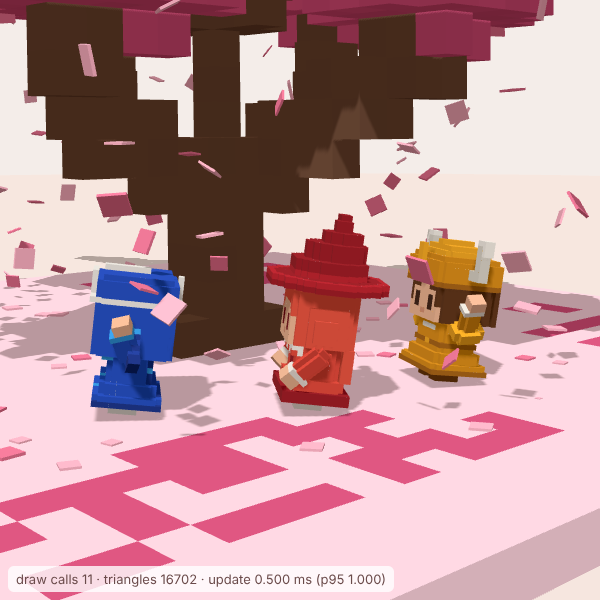
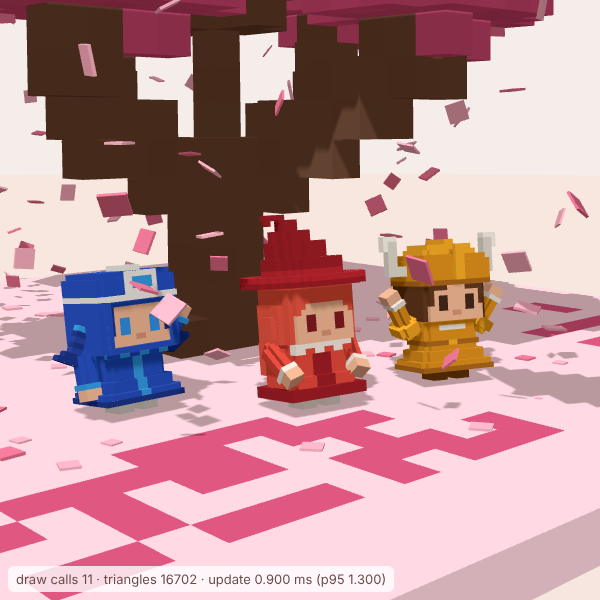
Bigger whale circle, smoother dive, staged angles and a camera move for the watching scene
- The whale circles at twice the plate's half-width (radius ~31 cubes, a lap in 40 s); it is the only
  thing allowed beyond plate + 3 cubes, and only as far as its own circle (the check uses that).
- The dive mirrors the climb (steep, easing level), and the pitch follows the motion averaged over a second
  with a soft ~45 degree limit, so diving into level flight no longer snaps.
- Staging: the whale arrives 25 degrees clockwise (seen from above) of where the runners stop, so they see it
  across open sky; their stopping point is predicted during the dive and the whale's place on its circle is
  eased towards it, then locked once they have stopped.
- Camera director (index.html): when they stop, the camera glides to 45 degrees counter-clockwise of them
  round the trunk, looking down at them from 45 degrees (rising if the canopy would hide anyone), drifts a
  little, and glides back when they run off. Dragging cancels it; off with ?view= / ?test=.
- Self-check: each runner's line of sight to the whale is clear while watching; the whale/runner angle is
  reported (26.7 degrees); the director glides in, holds and glides out.

Claude-Session: https://claude.ai/code/session_01FetaT53w5iQdLWHoFnmCoa

diff --git a/index.html b/index.html
@@ -95,7 +95,7 @@ const VIEWS = {
 function placeCamera(view) {
   if (view === 'wide') {
     controls.target.set(0, 0.03, 0);
-    camera.position.set(0.16, 0.085, 0.19);
+    camera.position.set(0.21, 0.13, 0.25);
     camera.lookAt(controls.target); controls.update();
     return;
   }
@@ -182,11 +182,91 @@ if (wv) {
   camera.position.copy(p).addScaledVector(out, d).addScaledVector(side, d * 0.35).add(new THREE.Vector3(0, d * 0.28, 0));
   camera.lookAt(controls.target); controls.update();
 }
+// ---- camera director ----------------------------------------------------------------------------------------------
+// When the three stop to watch the whale, the camera glides (2 s) to a spot 45 degrees counter-clockwise of them
+// round the trunk (seen from above), looking down at them from 45 degrees above, and drifts a little while they watch
+// (the whale arrives 25 degrees clockwise of them, so they see it across open sky). When they run off it glides
+// back. If the canopy would hide any of them, the camera rises until it doesn't. Dragging the view cancels the shot
+// until the next one. Off with ?view= or ?test=.
+const director = { on: !qs.get('view') && !qs.get('test'), phase: 'idle', t: 0, cancelled: false, first: true };
+const animRoot = () => stage.getObjectByName('SakuraQR-animation');
+const runnerObjs = () => {
+  const whaleObj = stage.getObjectByName('whale'), list = [];
+  stage.traverse(o => { if (o.isSkinnedMesh && !(whaleObj && whaleObj.getObjectById(o.id))) list.push(o.parent); });
+  return list;
+};
+const SHOT = { reach: 0.036, around: -Math.PI / 4, elevation: Math.PI / 4, drift: -0.1, glide: 2 };
+const trunkAt = new THREE.Vector3(info.trunk.centre[0], 0, info.trunk.centre[1]);   // the tree sits at the stage origin
+const easeInOut = x => x < 0.5 ? 4 * x * x * x : 1 - Math.pow(-2 * x + 2, 3) / 2;
+controls.addEventListener('start', () => { if (director.phase !== 'idle') { director.phase = 'idle'; director.cancelled = true; } });
+const treeSolids = [];
+tree.traverse(o => { if (o.isMesh) treeSolids.push(o); });
+const sightRay = new THREE.Raycaster();
+function clearSight(from, to) {
+  const d = to.clone().sub(from), len = d.length();
+  sightRay.set(from, d.normalize()); sightRay.far = len;
+  return !sightRay.intersectObjects(treeSolids, false).length;
+}
+function runnersCentre(objs) {
+  const c = new THREE.Vector3();
+  for (const o of objs) c.add(o.getWorldPosition(new THREE.Vector3()));
+  return c.divideScalar(objs.length || 1);
+}
+// camera for the shot: round the trunk by `around` from the runners, `reach` away from them horizontally, raised so
+// it looks down at them at `elevation`
+function shotPose(around, elevation) {
+  const objs = runnerObjs(), c = runnersCentre(objs);
+  const r = Math.hypot(c.x - trunkAt.x, c.z - trunkAt.z), a = Math.atan2(c.z - trunkAt.z, c.x - trunkAt.x) + around;
+  // the point at angle a from the trunk that is `reach` from the runners: |R u - r v| = reach, angle(u, v) = around
+  const R = r * Math.cos(around) + Math.sqrt(Math.max(0, SHOT.reach * SHOT.reach - Math.pow(r * Math.sin(around), 2)));
+  const pos = new THREE.Vector3(trunkAt.x + R * Math.cos(a), 0, trunkAt.z + R * Math.sin(a));
+  pos.y = c.y + Math.hypot(pos.x - c.x, pos.z - c.z) * Math.tan(elevation);
+  return { target: c.clone().add(new THREE.Vector3(0, 0.003, 0)), pos };
+}
+function direct(dt) {
+  if (!director.on) return;
+  const runners = (animRoot() && animRoot().userData.runners) || [];
+  const watching = runners.some(r => r.mode === 'watch');
+  if (!watching) director.cancelled = false;
+  const d = director;
+  if (d.phase === 'idle' && watching && !d.cancelled) {
+    d.saved = { pos: camera.position.clone(), target: controls.target.clone() };
+    // 45 degrees up; higher if the canopy is in the way of any of them (checked over the drift too)
+    const objs = runnerObjs();
+    d.elevation = SHOT.elevation;
+    for (; d.elevation < 1.4; d.elevation += 0.08) {
+      const ok = [0, SHOT.drift].every(dr => { const p = shotPose(SHOT.around + dr, d.elevation);
+        return objs.every(o => clearSight(o.getWorldPosition(new THREE.Vector3()).add(new THREE.Vector3(0, 0.003, 0)), p.pos)); });
+      if (ok) break;
+    }
+    d.phase = d.first ? 'hold' : 'in'; d.t = 0;          // already mid-shot when the page opens: cut straight to it
+  }
+  d.first = false;
+  if (d.phase === 'idle') return;
+  d.t += dt;
+  const shot = shotPose(SHOT.around + SHOT.drift * Math.min(1, d.t / 9), d.elevation);
+  if (d.phase === 'in') {
+    const k = easeInOut(Math.min(1, d.t / SHOT.glide));
+    camera.position.lerpVectors(d.saved.pos, shot.pos, k); controls.target.lerpVectors(d.saved.target, shot.target, k);
+    if (k >= 1) d.phase = 'hold';
+  } else if (d.phase === 'hold') {
+    camera.position.copy(shot.pos); controls.target.copy(shot.target);
+    if (!watching) { d.phase = 'out'; d.t = 0; d.from = { pos: camera.position.clone(), target: controls.target.clone() }; }
+  } else if (d.phase === 'out') {
+    const k = easeInOut(Math.min(1, d.t / SHOT.glide));
+    camera.position.lerpVectors(d.from.pos, d.saved.pos, k); controls.target.lerpVectors(d.from.target, d.saved.target, k);
+    if (k >= 1) d.phase = 'idle';
+  }
+  camera.lookAt(controls.target);
+  window.__director = d.phase;
+}
+
 const paused = !!qs.get('pause');
 let last = performance.now(), frames = 0;
 renderer.setAnimationLoop(now => {
   const dt = Math.min((now - last) / 1000, 0.1); last = now;
   if (!paused) { elapsed += dt; timedUpdate(dt, elapsed, showTime()); }
+  direct(dt);
   controls.update();
   renderer.render(scene, camera);
   if (++frames === 3) {
@@ -209,7 +289,7 @@ renderer.setAnimationLoop(now => {
 //  * do two walkers ever come closer than their radii allow?
 async function check() {
   stage.getObjectByName('SakuraQR-animation').userData.stats.where = [];
-  const out = { samples: 0, points: 0, insideTree: [], outOfBounds: [], offPlate: [], walkerOverlap: 0, showErrors: [], timeline: [], whaleLowest: Infinity, petalsAboveCanopy: 0, aboveCanopy: [], petalsFloating: 0, floating: [], petalsLanded: { plate: 0, canopy: 0 } };
+  const out = { samples: 0, points: 0, insideTree: [], outOfBounds: [], offPlate: [], walkerOverlap: 0, showErrors: [], timeline: [], whaleLowest: Infinity, whaleReach: 0, whaleVsRunners: [], petalsAboveCanopy: 0, aboveCanopy: [], petalsFloating: 0, floating: [], petalsLanded: { plate: 0, canopy: 0 } };
   const solid = [];
   tree.updateMatrixWorld(true);
   tree.traverse(o => {
@@ -269,6 +349,17 @@ async function check() {
       if (expect === 'look' && r.v > 0.01) note(out.showErrors, ['runner ' + i + ' moving while watching', +t.toFixed(2)]);
     });
     out.timeline.push([+t.toFixed(1), whaleUp ? 'whale' : '-', runners.map(r => r.act).join(',')]);
+    if (expect === 'look' && whaleUp) {            // while watching, each of them must be able to see the whale
+      const wp = whale.getWorldPosition(new THREE.Vector3()), plan = root.userData.whalePlan;
+      for (const w of walkers) {
+        const eye = w.getWorldPosition(new THREE.Vector3()).add(new THREE.Vector3(0, 3.5 * cell, 0));
+        const d = wp.clone().sub(eye), len = d.length();
+        ray.set(eye, d.normalize()); ray.far = len;
+        if (ray.intersectObjects(solid, false).length) note(out.showErrors, [w.name + ' cannot see the whale', +t.toFixed(2)]);
+        ray.far = Infinity;
+      }
+      out.whaleVsRunners.push([+t.toFixed(1), +(((plan.whale - plan.runners) * 180 / Math.PI + 540) % 360 - 180).toFixed(1)]);
+    }
     if (whaleUp && whaleMesh) {                     // the whale: never in the tree, never past plate + 3 cubes
       whaleMesh.skeleton && whaleMesh.skeleton.update();
       seen.clear();
@@ -280,7 +371,10 @@ async function check() {
         if (seen.has(k)) continue; seen.add(k);
         out.points++;
         low = Math.min(low, v.y);
-        if (Math.abs(v.x) > lim || Math.abs(v.z) > lim || v.y < 0) note(out.outOfBounds, ['whale', +t.toFixed(2), v.toArray().map(n => +(n / cell).toFixed(2))]);
+        // the whale may go beyond plate + 3 cubes, but only as far as its own circle (plus fins) takes it
+        const orbit = root.userData.whaleOrbit, dx = v.x / cell - orbit.centre[0], dz = v.z / cell - orbit.centre[1];
+        if (Math.hypot(dx, dz) > orbit.reach + 1.5 || v.y < 0) note(out.outOfBounds, ['whale', +t.toFixed(2), v.toArray().map(n => +(n / cell).toFixed(2))]);
+        out.whaleReach = Math.max(out.whaleReach, Math.hypot(dx, dz));
         if (inside(v)) note(out.insideTree, ['whale', +t.toFixed(2), v.toArray().map(n => +(n / cell).toFixed(2))]);
       }
       out.whaleLowest = Math.min(out.whaleLowest, low / cell);

diff --git a/scene.js b/scene.js
@@ -47,7 +47,9 @@ const SHOW = {
 };
 const WHALE_DIVE = 48;        // how far above its circle the whale starts its dive, in cubes
 const WHALE_CLIMB = 60;       // how far it has climbed by the time it is gone
-const WHALE_LAP = 24;         // seconds per lap round the tree
+const WHALE_ORBIT = 2;        // radius of its circle, in plate half-widths
+const WHALE_LAP = 40;         // seconds per lap round the tree
+const WHALE_LEAD = 25 * Math.PI / 180;   // where it arrives: this far clockwise (from above) of where the runners stop
 
 export default async function setup({ THREE = THREE_NS, stage, tree, info, mode = '3d', showLength = 93.27 }) {
   const cell = info.cell;
@@ -104,8 +106,9 @@ export default async function setup({ THREE = THREE_NS, stage, tree, info, mode 
   }
 
   // ---- whale ------------------------------------------------------------------------------------------------------
-  // Circles the trunk high enough that, flukes, fins and banking included, it stays clear of the canopy, on a circle
-  // small enough that it never reaches more than 3 cubes past the plate's edge.
+  // Circles the trunk on a big circle — WHALE_ORBIT times the plate's half-width (the one thing in the scene allowed
+  // beyond 3 cubes past the plate's edge) — high enough that, flukes, fins and banking included, it stays clear of
+  // the canopy.
   const wg = await loader.loadAsync(new URL('./assets/whale.glb', import.meta.url).href);
   const whale = wg.scene;
   whale.name = 'whale';
@@ -120,25 +123,50 @@ export default async function setup({ THREE = THREE_NS, stage, tree, info, mode 
   const qBend = new THREE.Quaternion(), yAxis = new THREE.Vector3(0, 1, 0);
   if (wg.animations.length) whaleMixer.clipAction(wg.animations[0]).play();
   const tcx = info.trunk.centre[0] / cell, tcz = info.trunk.centre[1] / cell;
-  const reachOut = Math.min(field.x0 + field.nx / SAMPLES - tcx, tcx - field.x0, field.z0 + field.nz / SAMPLES - tcz, tcz - field.z0) + 3 - 1;
   const wLen = wex.length || 24, wSpan = wex.span || 13, wHeight = wex.height || 8;
-  let wScale = 1, wR = 9.5;
+  const wScale = 1, wR = WHALE_ORBIT * info.plate.cells / 2;
   const halfLen = wLen / 2 + 1.5;                   // the model is a little off-centre (snout +11.5, flukes -13.5)
-  // its spine is bent to follow the circle (see stepWhale), so the fins are what reach furthest out
-  const fits = () => wR + wScale * wSpan / 2 <= reachOut;
-  while (!fits() && wR > 5) wR -= 0.25;
-  while (!fits() && wScale > 0.3) wScale -= 0.02;
+  root.userData.whaleOrbit = { centre: [tcx, tcz], radius: wR, reach: wR + wScale * wSpan / 2 };   // for tests
   whale.scale.setScalar(wScale);
   const WHALE_ROLL = 0.18;
   const wAlt = info.height / cell + 2.5 + wScale * (wHeight / 2 + (wSpan / 2) * Math.sin(WHALE_ROLL)) + 1;   // + 1 for its bob
-  const wOmega = -2 * Math.PI / WHALE_LAP;          // clockwise seen from above, against the runners
+  // angles round the trunk: a = atan2(z, x), which grows clockwise seen from above; the runners go that way
+  const wOmega = -2 * Math.PI / WHALE_LAP;          // counter-clockwise seen from above, against the runners
   const smooth = x => x <= 0 ? 0 : x >= 1 ? 1 : x * x * (3 - 2 * x);
+  // where the whale is at song time t: [x, y, z, scale]; null when it is not in the sky
+  // Where the runners stop decides where the whale should be when it arrives: WHALE_LEAD clockwise (seen from above)
+  // of them round the trunk, so they see it across open sky, not through the tree. Their stopping point depends on
+  // how the chase has gone, so during the dive (high up, out of sight) the whale's place on its circle is steered
+  // towards the predicted spot, and locked once they have stopped.
+  let wPhase = null, wLocked = false;
+  const groupAngle = () => {
+    let x = 0, z = 0;
+    for (const w of walkers) { x += Math.cos(Math.atan2(w.pz - tcz, w.px - tcx)); z += Math.sin(Math.atan2(w.pz - tcz, w.px - tcx)); }
+    return Math.atan2(z, x);
+  };
+  function planWhale(t, dt) {
+    if (t < SHOW.whaleIn || t >= SHOW.whaleGone) { wPhase = null; wLocked = false; return; }
+    if (wLocked || !path || walkers.some(w => w.px === undefined)) { if (wPhase === null) wPhase = Math.PI * 0.75; return; }
+    const stopAt = SHOW.watchFrom[SHOW.watchFrom.length - 1];
+    let ahead = 0;                                  // how much further round they will get before they stop
+    if (t < stopAt + 0.6) {
+      const v = walkers.reduce((a, w) => a + w.v, 0) / walkers.length;
+      ahead = (Math.max(0, stopAt - t) * v + v * v / (2 * 3.5)) / (path.length / (2 * Math.PI));
+    }
+    const target = groupAngle() + ahead + WHALE_LEAD;
+    // first sight (or a page opened after the whale arrived): put it there; otherwise ease towards it, never jump
+    if (wPhase === null) wPhase = target;
+    else wPhase += Math.atan2(Math.sin(target - wPhase), Math.cos(target - wPhase)) * Math.min(1, dt * (t < SHOW.whaleArrive ? 2 : 1.2));
+    if (t >= SHOW.whaleArrive + 0.6 && walkers.every(w => w.v < 0.05)) wLocked = true;
+    root.userData.whalePlan = { runners: groupAngle(), whale: wPhase, locked: wLocked };
+  }
   // where the whale is at song time t: [x, y, z, scale]; null when it is not in the sky
   function whaleAt(t, out) {
     if (t < SHOW.whaleIn || t >= SHOW.whaleGone) return null;
-    const a = Math.PI * 0.75 + wOmega * (t - SHOW.whaleArrive);
+    const a = (wPhase ?? Math.PI * 0.75) + wOmega * (t - SHOW.whaleArrive);
     let y = wAlt + Math.sin(2 * Math.PI * (t - SHOW.whaleArrive) / 12);
-    if (t < SHOW.whaleArrive) y += WHALE_DIVE * Math.pow(1 - (t - SHOW.whaleIn) / (SHOW.whaleArrive - SHOW.whaleIn), 2);
+    // the dive mirrors the climb: steep at first, easing out to level flight as it joins its circle
+    if (t < SHOW.whaleArrive) y += WHALE_DIVE * Math.pow(1 - (t - SHOW.whaleIn) / (SHOW.whaleArrive - SHOW.whaleIn), 2.3);
     if (t > SHOW.whaleClimb) y += WHALE_CLIMB * Math.pow((t - SHOW.whaleClimb) / (SHOW.whaleGone - SHOW.whaleClimb), 2.3);
     const fade = 1 - smooth((t - (SHOW.whaleGone - 1.4)) / 1.4);   // shrinks away into the distance at the very end
     out[0] = tcx + wR * Math.cos(a); out[1] = y; out[2] = tcz + wR * Math.sin(a); out[3] = fade;
@@ -146,18 +174,22 @@ export default async function setup({ THREE = THREE_NS, stage, tree, info, mode 
   }
   const wa = [0, 0, 0, 0], wb = [0, 0, 0, 0];
   function stepWhale(t, dt) {
+    planWhale(t, dt);
     if (!whaleAt(t, wa)) { whale.visible = false; return; }
-    const ahead = whaleAt(t + 0.05, wb), sgn = ahead ? 1 : -1;   // velocity from a point just ahead (or behind)
-    if (!ahead) whaleAt(t - 0.05, wb);
-    const vx = (wb[0] - wa[0]) * sgn, vy = (wb[1] - wa[1]) * sgn, vz = (wb[2] - wa[2]) * sgn;
+    // direction of travel averaged over a second either side, so nose-down turns to level gradually
+    const t0 = Math.max(SHOW.whaleIn, t - 0.5), t1 = Math.min(SHOW.whaleGone - 0.001, t + 0.5);
+    whaleAt(t0, wb); const x0 = wb[0], y0 = wb[1], z0 = wb[2];
+    whaleAt(t1, wb);
+    const vx = wb[0] - x0, vy = wb[1] - y0, vz = wb[2] - z0;
+    whaleAt(t, wa);
     whale.visible = wa[3] > 0.01;
-    // heading along its path, nose up or down with its climb (at most 40 degrees), banked into the turn; raised by
-    // as much as the pitch swings its tail or nose down, so it never dips towards the canopy
-    const pitch = Math.max(-0.7, Math.min(0.7, Math.atan2(vy, Math.hypot(vx, vz))));
+    // heading along its path, nose up or down with its climb (softly limited to ~45 degrees), banked into the turn;
+    // raised by as much as the pitch swings its tail or nose down, so it never dips towards the canopy
+    const pitch = 0.8 * Math.tanh(Math.atan2(vy, Math.hypot(vx, vz)) / 0.8);
     whale.position.set(wa[0], wa[1] + wScale * halfLen * Math.sin(Math.abs(pitch)), wa[2]);
     whale.rotation.set(-pitch, Math.atan2(vx, vz), WHALE_ROLL * Math.sign(wOmega), 'YXZ');
     whale.scale.setScalar(wScale * Math.max(wa[3], 0.001));
-    whaleMixer.timeScale = 1 + Math.min(0.8, Math.abs(vy) / 0.05 / 12);
+    whaleMixer.timeScale = 1 + Math.min(0.8, Math.abs(vy) / (t1 - t0) / 12);
     whaleMixer.update(dt);
     // bend into the turn: head and tail both curve towards the centre of the circle (on top of the swim clip)
     const turn = Math.sign(wOmega) * -1;              // +1: the centre is on the whale's +x side

diff --git a/README.md b/README.md
@@ -44,8 +44,13 @@ const { update, dispose } = await setup({ THREE, stage, tree, info, mode, showLe
 | 63 秒 – 曲终 | 三人改成蹦蹦跳跳地前进（左右手脚交替），直到歌曲循环 |
 
 - **鲸鱼**（`assets/whale.glb`，`tools/make-whale.mjs` 生成）：每格 2 个体素，约 25 格长，带一段 2.4 秒的 `swim` 循环。动画是上下摆尾，鳍跟着拍，头微微点；脊椎分成几节，节与节之间的顶点按两边关节各占一半来混合，弯起来没有裂缝。
-- 鲸鱼绕树干游，方向和小人相反。游动时身体向内侧倾斜，脊椎往圆心方向弯，贴着圆弧走。整头鲸鱼一直在树冠上方，水平方向不超出底座 3 格。
+- 鲸鱼绕树干游，圆的半径是底座半宽的 2 倍（约 31 格），一圈 40 秒，方向和小人相反。游动时身体向内侧倾斜，脊椎往圆心方向弯，贴着圆弧走。整头鲸鱼一直在树冠上方。场景里只有鲸鱼可以超出“底座外 3 格”的范围，但不会超出它自己的圆（加上鳍）。
 - 俯冲和上升时，头朝下或朝上最多 40°，并且会按俯仰角度额外抬高，尾巴和头不会碰到树冠。最后 1.4 秒在高空缩小消失。
+
+- **鲸鱼到达的位置**按三人停下的地方来定：以树干为中心、从上往下看，在三人顺时针 25° 的方向。这样他们是隔着天空看到鲸鱼，不会被树挡住。三人停在哪里取决于追逐的过程，所以俯冲期间（鲸鱼还在高空、看不见时）会预测他们的落脚点，逐渐把鲸鱼在圆上的位置调过去，等三人停稳后锁定。
+- 俯冲和上升对称：一开始陡，最后渐渐放平进入圆圈。头的俯仰按前后各 0.5 秒的平均运动方向计算，并做软限制（约 45°），所以从俯冲转成平游是逐渐完成的，不会一下子拉平。
+
+**自动运镜**（演示页）：三人停下来看鲸鱼时，镜头在 2 秒内滑到以树干为中心、三人逆时针 45° 的位置（从上往下看），从斜上方 45° 往下看着他们，在看鲸鱼期间缓缓转一点；他们重新跑起来后，镜头再滑回原来的位置。如果树冠会挡住其中任何一个人，镜头会逐步升高，直到三人都看得见。拖动视角会取消这一次运镜。带 `?view=` 或 `?test=` 时不运镜。
 
 ## 本地运行和自检
 
@@ -71,7 +76,7 @@ node test/shots.mjs         # 无头 Chromium 跑自检，截图到 screenshots/
 - 小人有没有走出底座，彼此有没有撞上。
 - 有没有花瓣飘在附近树冠顶面的上方。
 - 每片停住的花瓣（平躺且不动），正中间往下 0.1 格内必须碰到树或底座。
-- 演出时间线：鲸鱼只在 17–63 秒出现；21.5–28.5 秒三人都停住在看；19.4 秒前和 30–63 秒在跑；64 秒后在跳。鲸鱼的每个顶点（蒙皮之后）也要不在树里、不超出底座 3 格。
+- 演出时间线：鲸鱼只在 17–63 秒出现，而且不超出它自己的圆；看鲸鱼期间，每个人头部到鲸鱼的视线不能穿过树；21.5–28.5 秒三人都停住在看；19.4 秒前和 30–63 秒在跑；64 秒后在跳。鲸鱼的每个顶点（蒙皮之后）也要不在树里、不超出底座 3 格。
 - 绘制调用、三角形数和 `update()` 的耗时。
 - `dispose()` 之后 stage 里是不是只剩下树。
 
